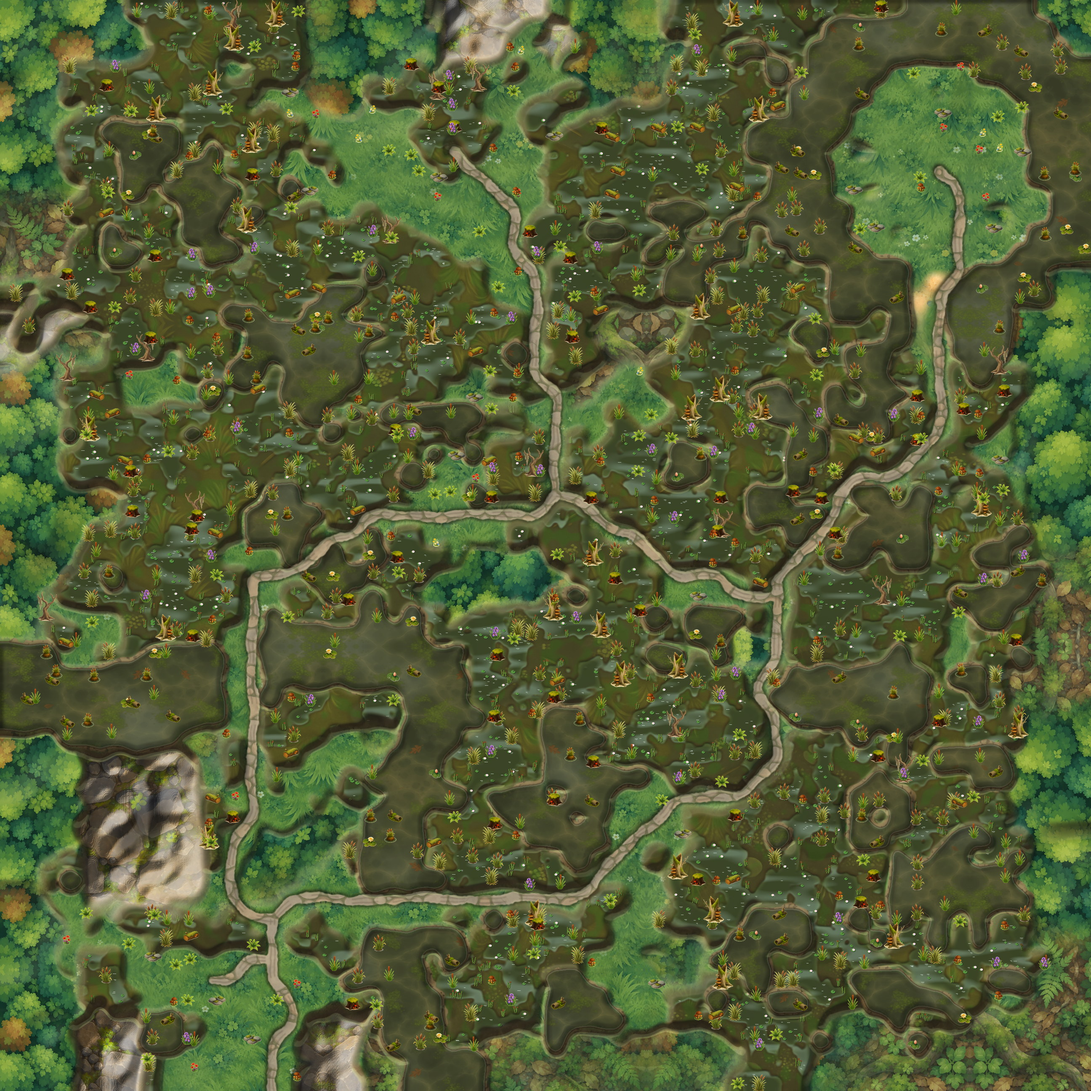
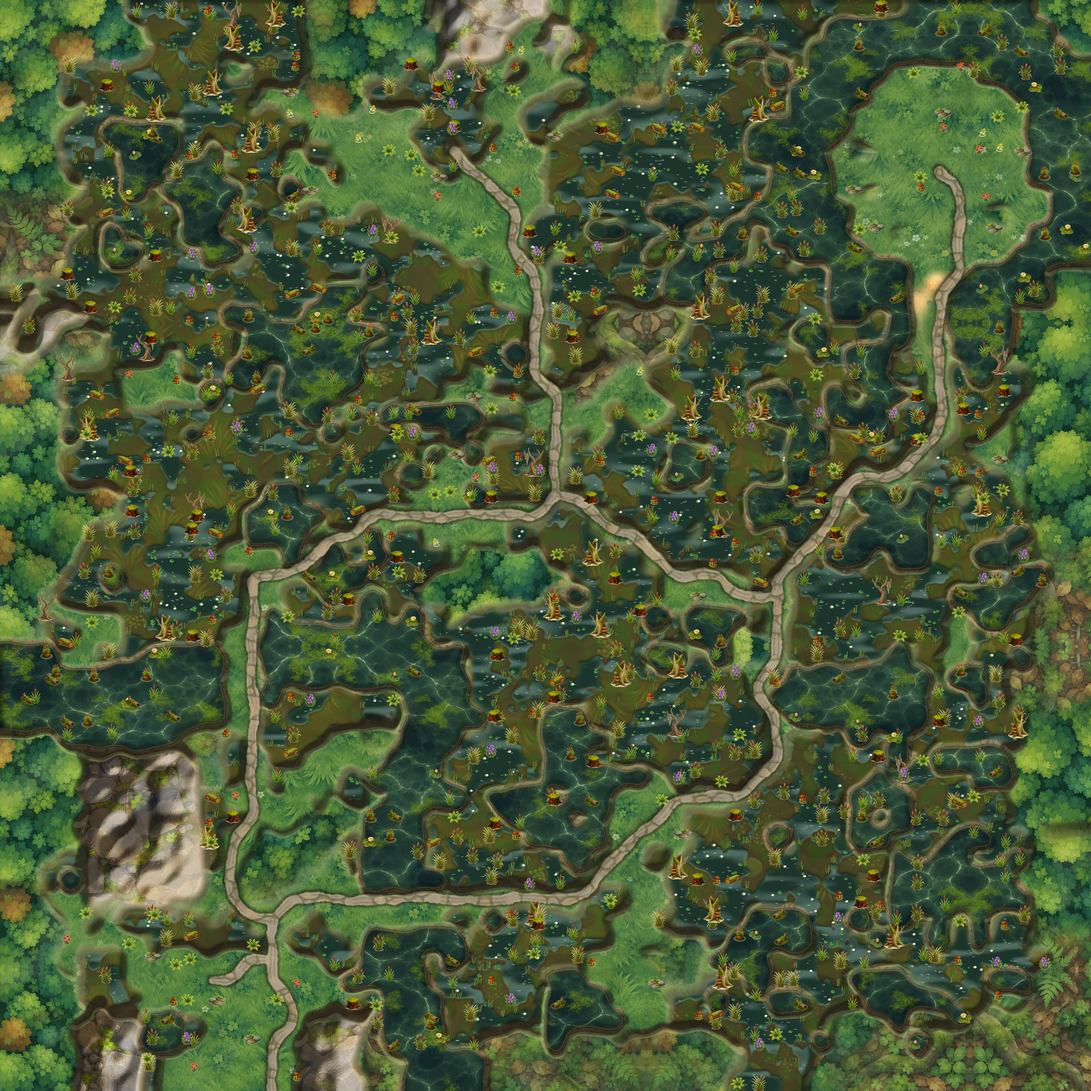
Miękka krawędź mgły wojny (src/visual/mgla.ts); porty zrzutów bez HMR: 5200-5219
Claude-Session: https://claude.ai/code/session_01Qu47Qn6gy3U54smkJJnCXL

diff --git a/vite.config.ts b/vite.config.ts
@@ -24,7 +24,7 @@ function wersjaZGita() {
 }
 
 /**
- * Porty 5190–5199 należą do etapu zrzutów w pętli ślepych porównań. Builderzy
+ * Porty 5200–5219 należą do etapu zrzutów w pętli ślepych porównań. Builderzy
  * zmieniają w tym czasie pliki w tym samym drzewie, a serwer z HMR
  * przeładowywał wtedy stronę w trakcie zrzutu albo sondy. Na tych portach
  * serwer nie obserwuje plików i nie przeładowuje; zwykły `npm run dev`
@@ -33,7 +33,7 @@ function wersjaZGita() {
 const portZrzutow = (() => {
   const i = process.argv.indexOf('--port');
   const port = i !== -1 ? Number(process.argv[i + 1]) : NaN;
-  return port >= 5190 && port <= 5199;
+  return port >= 5200 && port <= 5219;
 })();
 
 export default defineConfig({

diff --git a/src/data/plansza-teren-bagna.ts b/src/data/plansza-teren-bagna.ts
@@ -294,21 +294,21 @@ export const USTAWIENIA = {
   "obrysObiektow": 0.55,
   "wodaBarwy": {
     "plytka": [
-      0.5,
-      0.54,
-      0.42
+      0.22,
+      0.38,
+      0.34
     ],
     "gleboka": [
-      0.22,
-      0.27,
-      0.21
+      0.07,
+      0.15,
+      0.15
     ],
     "piana": [
-      0.55,
+      0.5,
       0.56,
       0.4
     ],
-    "pianaMoc": 0.3,
-    "iskry": 0.8
+    "pianaMoc": 0.25,
+    "iskry": 1.0
   }
 };

diff --git a/tools/mapy/bagna.py b/tools/mapy/bagna.py
@@ -439,11 +439,12 @@ USTAWIENIA = {
     # Runda 6 („turkusowa, czysta woda — tropikalna zatoka"): tafla w shaderze
     # mętna, oliwkowo-brunatna, bez białej piany i z przygaszonymi iskrami.
     'wodaBarwy': {
-        'plytka': [0.50, 0.54, 0.42],
-        'gleboka': [0.22, 0.27, 0.21],
-        'piana': [0.55, 0.56, 0.40],
-        'pianaMoc': 0.3,
-        'iskry': 0.8,
+        # Runda 7: ciemna torfowa tafla (jak tekstura `teren-woda-czarna`).
+        'plytka': [0.22, 0.38, 0.34],
+        'gleboka': [0.07, 0.15, 0.15],
+        'piana': [0.50, 0.56, 0.40],
+        'pianaMoc': 0.25,
+        'iskry': 1.0,
     },
 }
 
@@ -456,7 +457,10 @@ BARWY_TERENU = {
     # Runda 6: tekstura mętnej wody (`teren-woda-bagno`: zmarszczki zwykłej
     # wody przemalowane na brunatną oliwkę + rzęsa i liście z dostawy OpenAI),
     # tu już tylko lekko przyciemniona.
-    'woda': {'nasycenie': 1.0, 'barwa': (90, 100, 90), 'moc': 0.15, 'jasnosc': 0.84},
+    # Runda 7 („prawa połowa to mętna, szarozielona plama bez kontrastu"):
+    # tafla `teren-woda-czarna` — ciemna, torfowa woda z jasnymi zmarszczkami
+    # i rzęsą, wyraźnie ciemniejsza od lądu. Barwy nie ruszamy.
+    'woda': {'nasycenie': 1.0, 'barwa': (90, 100, 90), 'moc': 0.0, 'jasnosc': 1.0},
     # Runda 6 („zieleń wokół obiektów przygasić"): łąka mniej nasycona.
     'trawa': {'nasycenie': 0.5, 'barwa': (100, 140, 112), 'moc': 0.55, 'jasnosc': 0.78},
     'las': {'nasycenie': 0.7, 'barwa': (90, 110, 75), 'moc': 0.4, 'jasnosc': 0.82},
@@ -470,9 +474,9 @@ BARWY_TERENU = {
 EFEKTY = ['trzesawisko', 'obwodka_drogi', 'relief', 'bez_placow', 'brzeg_wody']
 #: Runda 3 („ciemna ziemia z trzciną, wygląda jak ciemny las"): oczka stojącej
 #: wody w barwie jezior tej planszy, mokre błoto wokół, jaśniejszy grunt.
-TRZESAWISKO = {'woda': (72, 84, 52)}
+TRZESAWISKO = {'woda': (34, 64, 58)}
 #: Błoto z dostawy (`tools/PROMPTY-PLANSZE.md`), do tego czasu zwykłe bagno.
-TEKSTURY = {'bagno': ['bloto', 'bagno'], 'woda': ['woda-bagno', 'woda'], 'sciezka': ['bruk', 'sciezka']}
+TEKSTURY = {'bagno': ['bloto', 'bagno'], 'woda': ['woda-czarna', 'woda-bagno', 'woda'], 'sciezka': ['bruk', 'sciezka']}
 
 #: Runda 2 („krainy rozmywają się w jedną"): twardsze brzegi terenów.
 #: Runda 6 („brzegi wody miękko rozmyte, bez wyraźnej linii"): woda ostrzej.

diff --git a/tools/PROMPTY-PLANSZE.md b/tools/PROMPTY-PLANSZE.md
@@ -1240,3 +1240,27 @@ than a mountain but clearly impassable rough rocky ground. Lit from the
 right. Much wider than tall; the foot spreads across the whole width of the
 picture.
 ```
+
+## 13. Bagna — runda 7 (wzorzec HotA): most nad Czarną Strugą
+
+Werdykt rundy 6: „prawa połowa to mętna, szarozielona plama bez rzeźby
+i obiektów; bagnu trzeba dać ostrą teksturę z czytelnymi krawędziami wody
+i lądu". Woda dostała ciemną, torfową teksturę `teren-woda-czarna`
+(przeliczoną z `teren-woda` i rzęsy z `teren-woda-bagno`, bez API), Struga
+w kadrze jest wąską, czystą wstęgą, a bród zastąpił most — naklejka tła
+(`MOSTY` w `tools/mapy/bagna.py`), obrobiony plik w `public/mapa/bagno/most.png`.
+
+<!-- plik: bagno-most.png | styl: obiekt | proporcje: 3:2 -->
+```
+A short old wooden bridge over a swamp creek, seen straight from the front and
+from above at about forty-five degrees, NOT isometric and NOT diagonal: the
+bridge runs perfectly horizontally from the left edge to the right edge of the
+picture, parallel to the bottom edge. We see the top of the deck as a wide
+horizontal band of weathered grey-brown planks laid crosswise, some planks
+darker and slightly crooked, patches of green moss and a little hanging swamp
+moss on the edges, a rough log railing with crooked posts along the back edge
+and the front edge, a small lantern on one post, and below the deck the front
+face with three thick dark wooden stilts wrapped in moss. Both ends are flat
+and open so a road can run onto them. Much wider than tall. No water, no river
+banks, no grass, no ground.
+```
